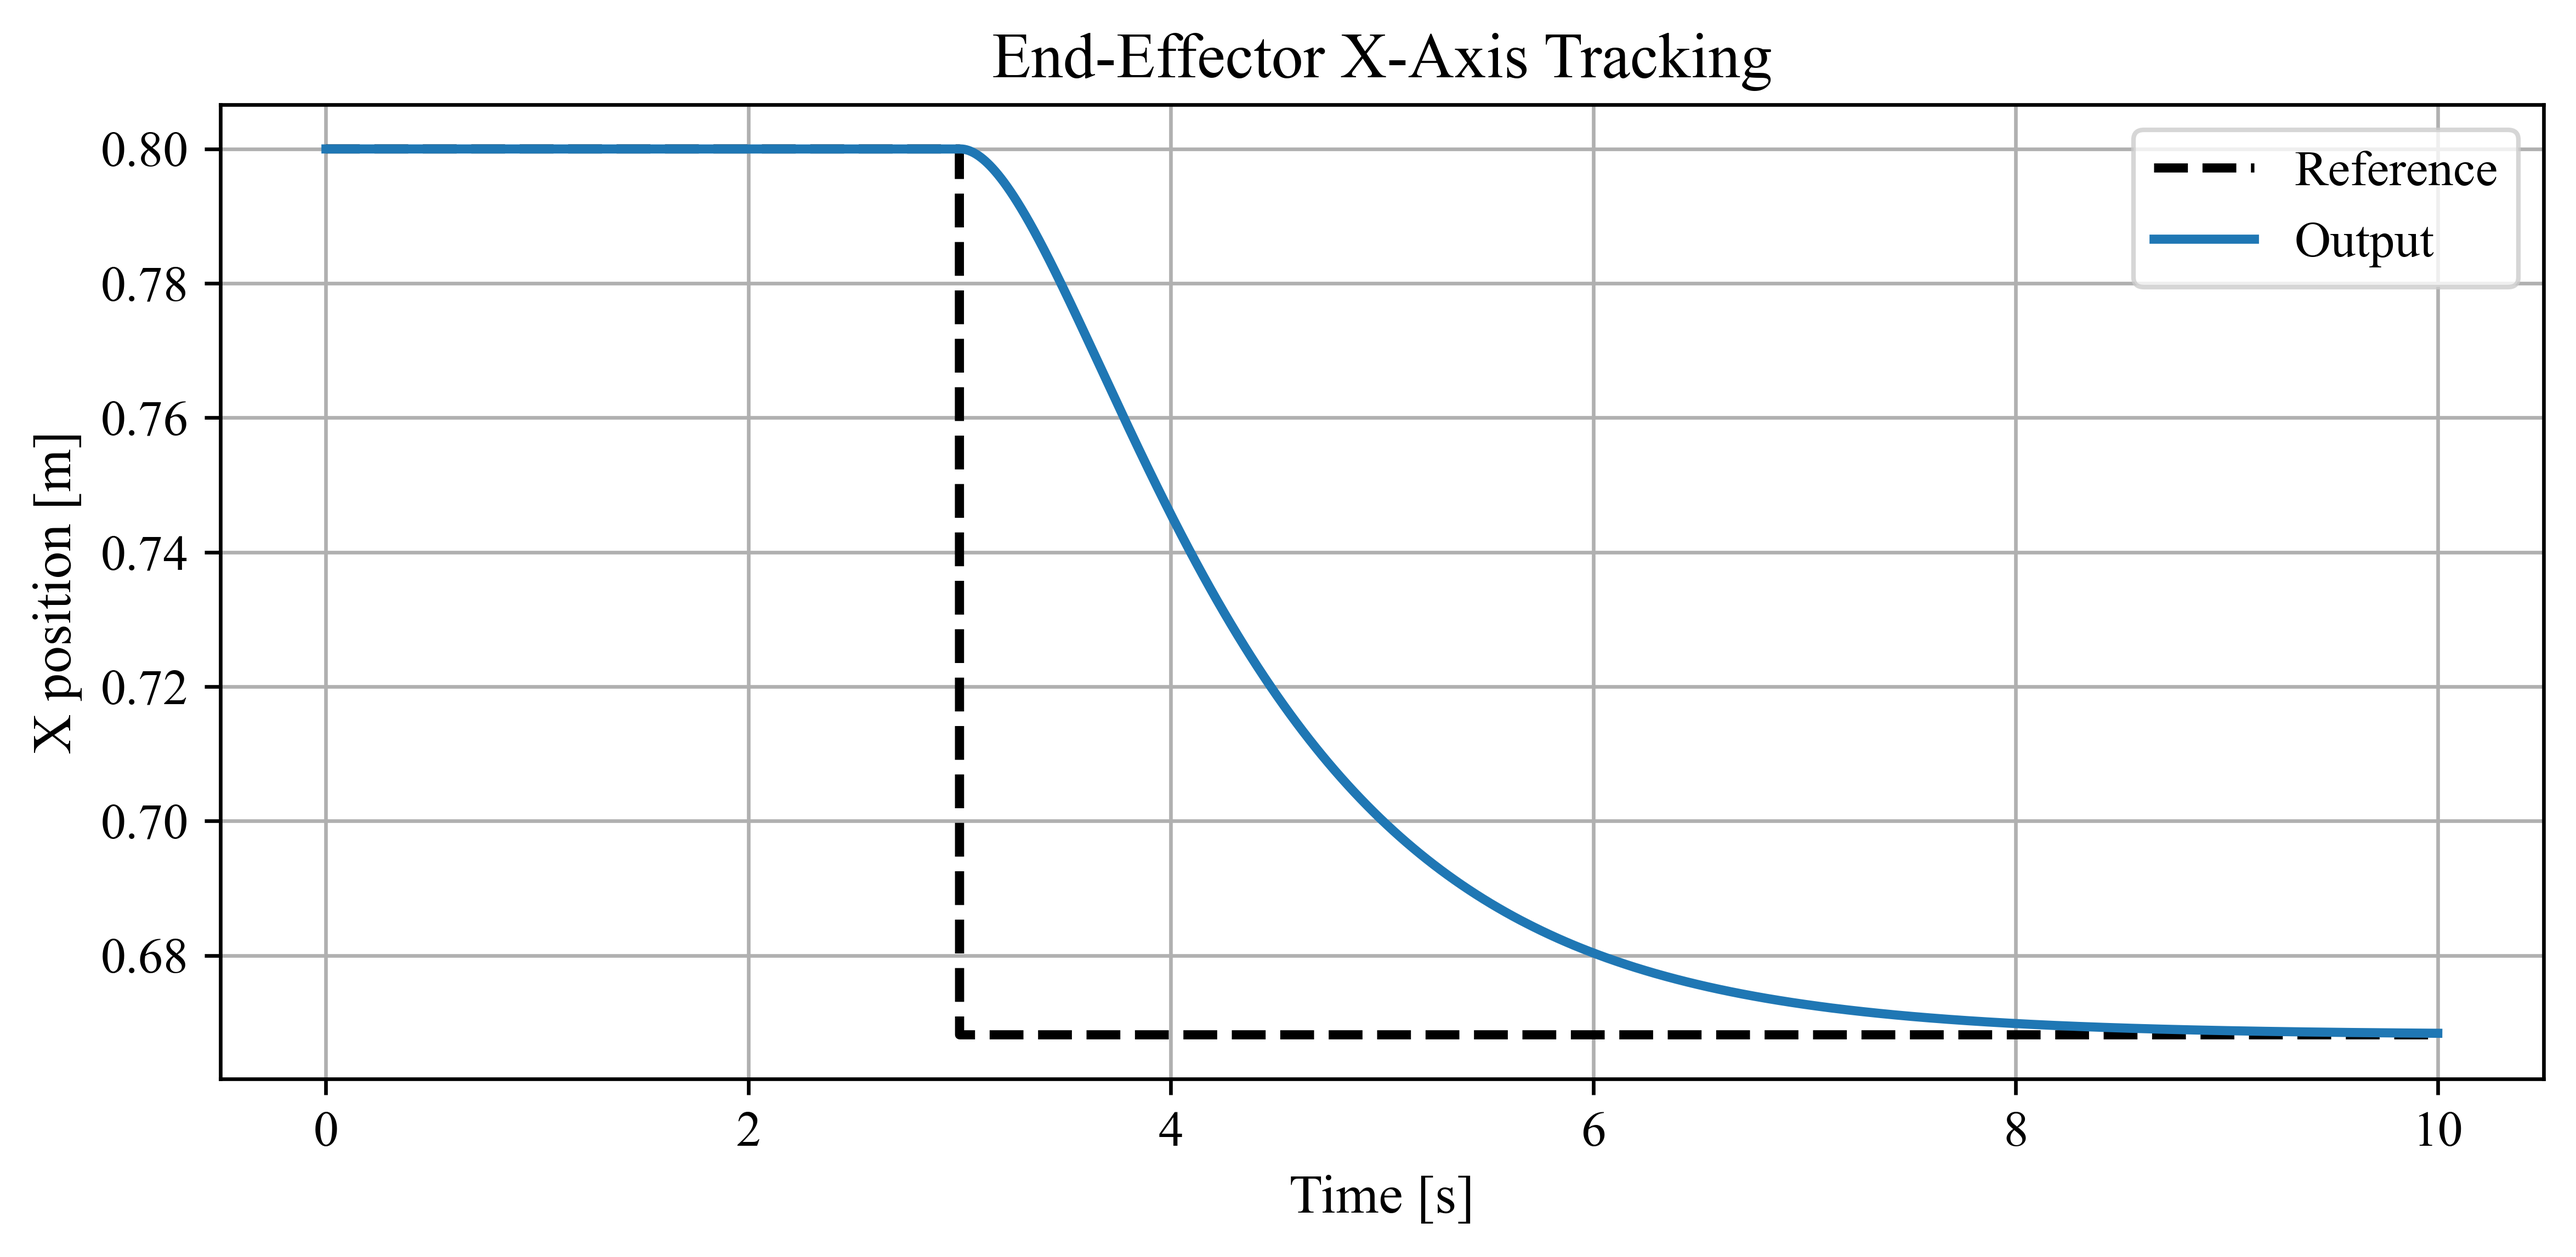
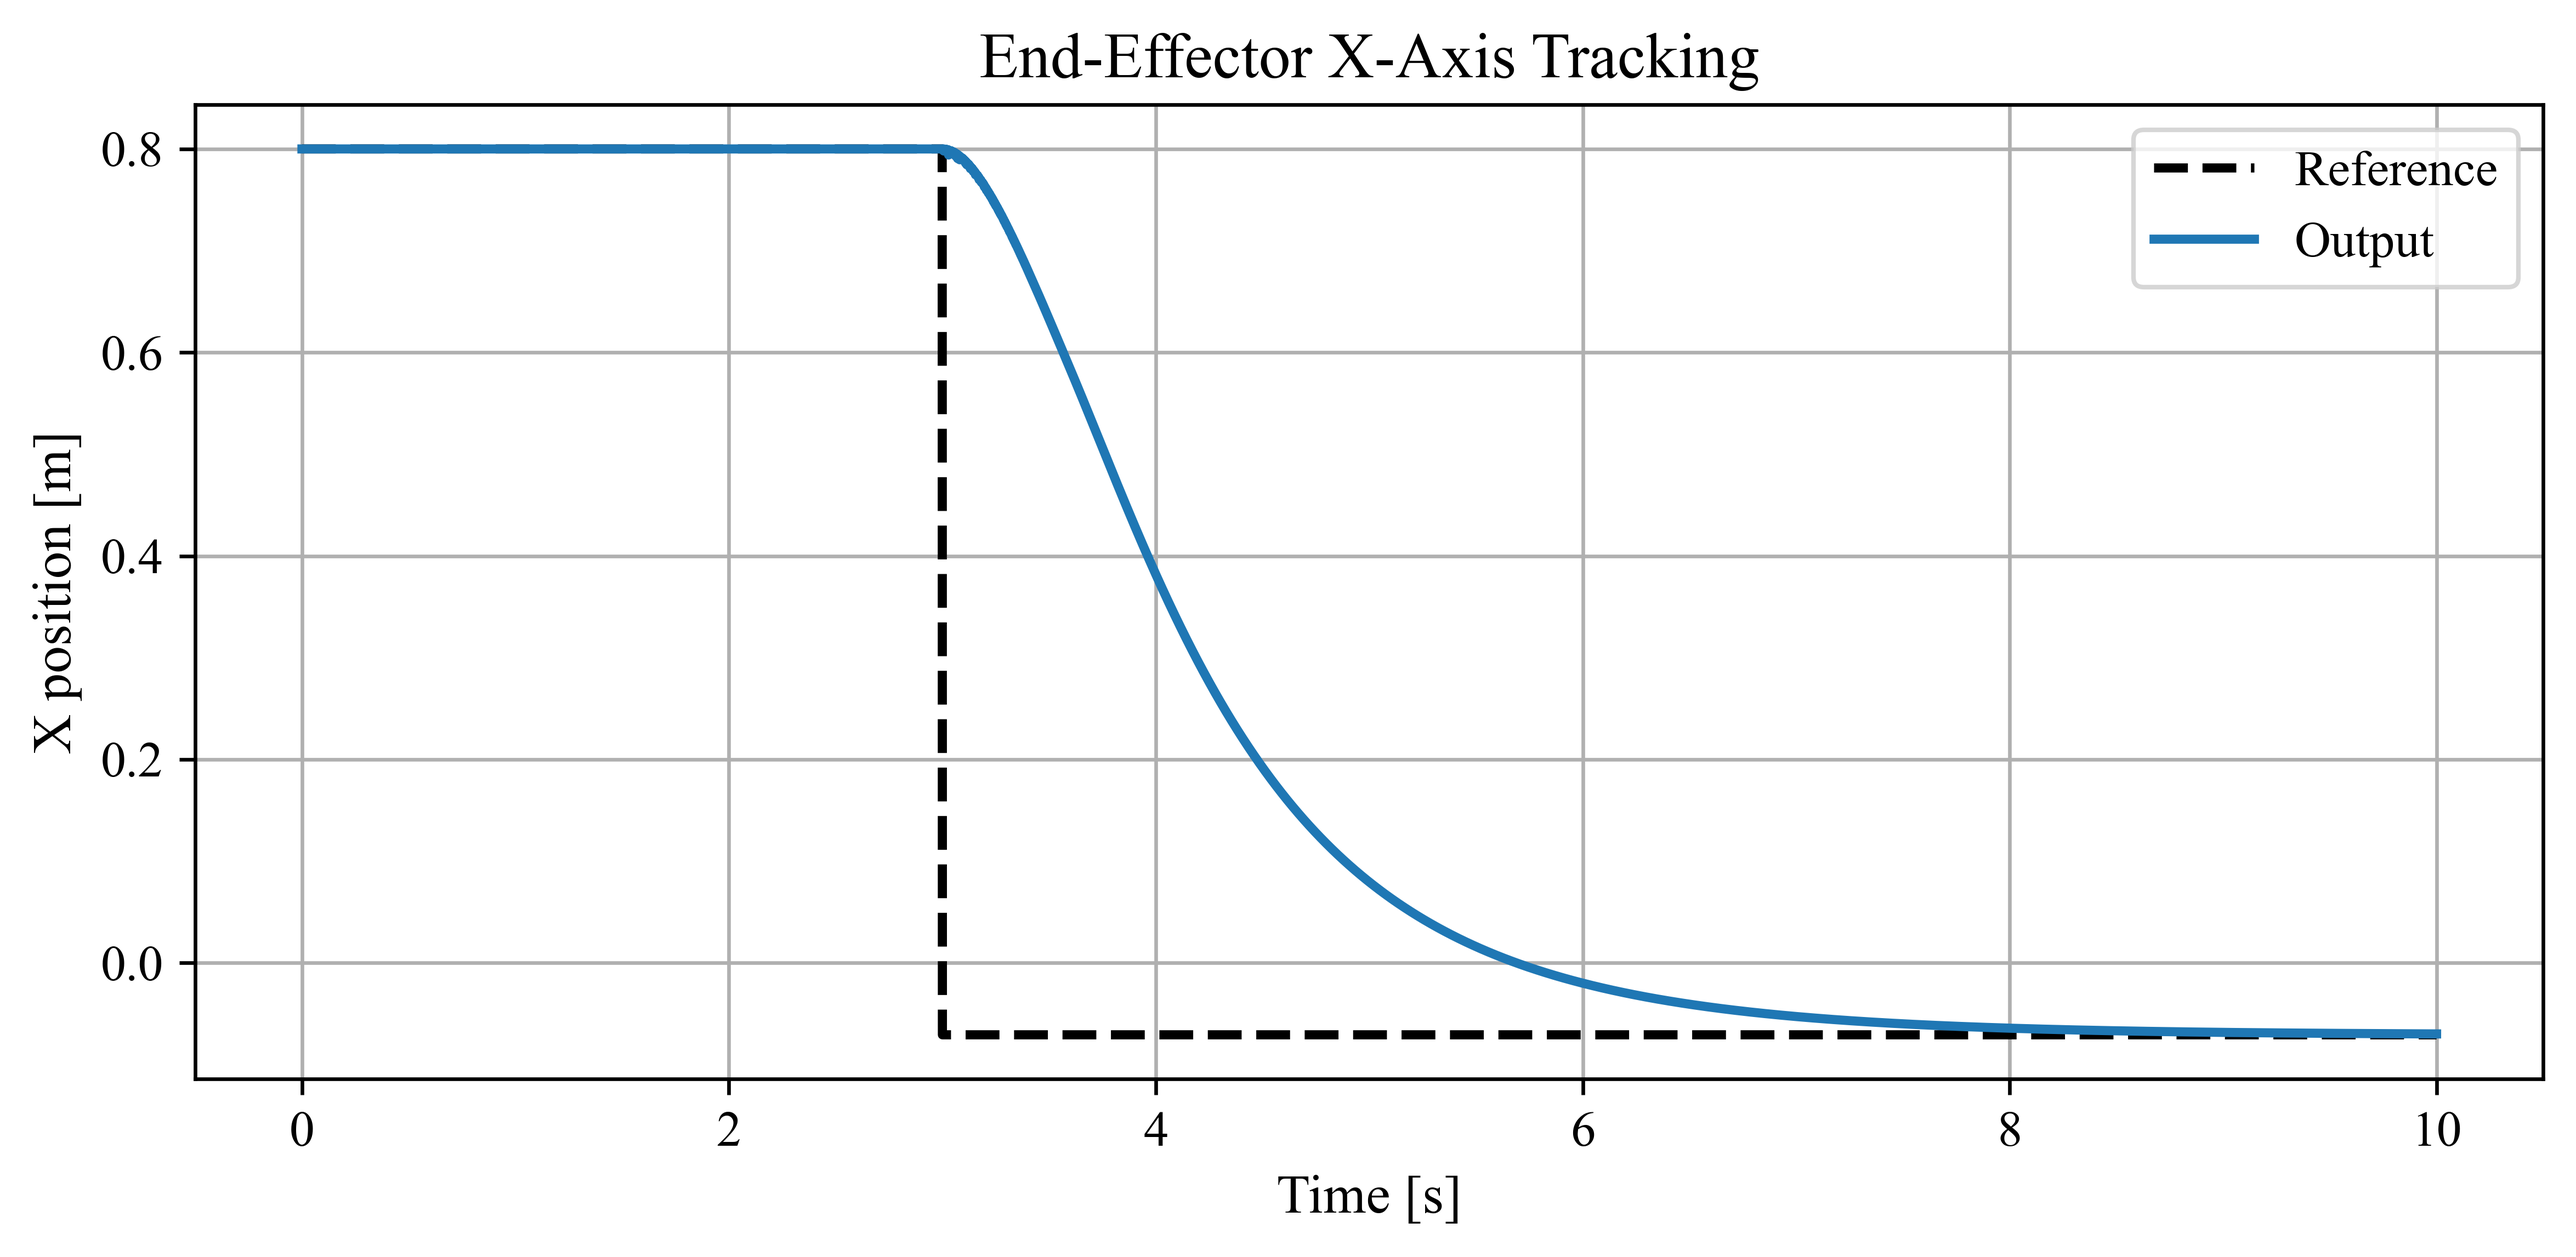
Word related

diff --git a/test.py b/test.py
@@ -186,7 +186,7 @@ for i, axis in enumerate(labels):
     plt.tight_layout()
 
     # Save figure
-    filename = f"IK_{axis}_tracking.png"
+    filename = f"Word_Related/Section_3_2_InverseKinematics/IK_{axis}_tracking.png"
     plt.savefig(filename, dpi=600, bbox_inches="tight")
     plt.show()
 
